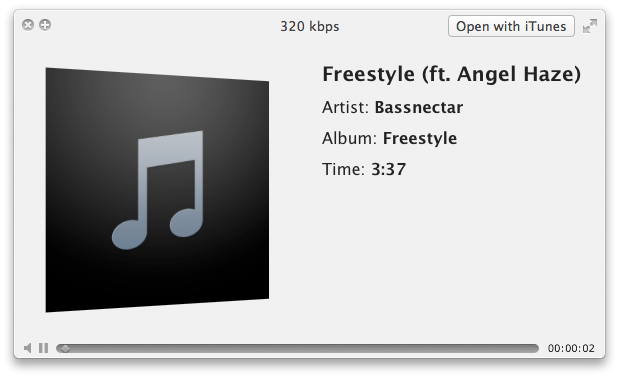
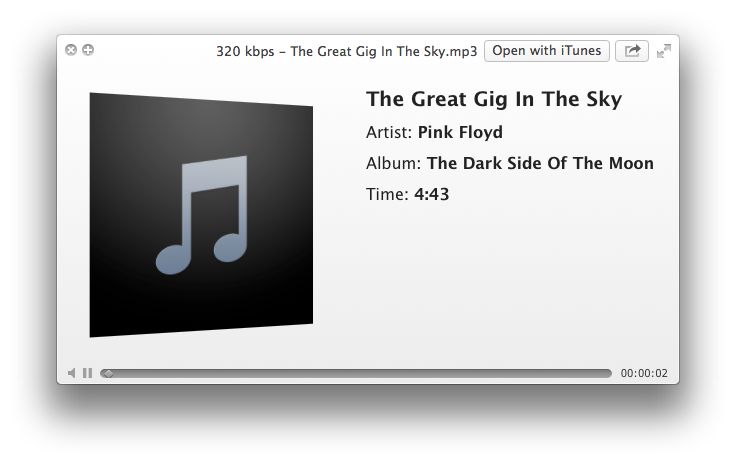
Updated for filename display support

diff --git a/qlBitrate/GeneratePreviewForURL.c b/qlBitrate/GeneratePreviewForURL.c
@@ -59,7 +59,7 @@ OSStatus GeneratePreviewForURL(void *thisInterface, QLPreviewRequestRef preview,
 
     // Build output to display
     CFStringRef keys[1] = {kQLPreviewPropertyDisplayNameKey};
-    CFStringRef values[1] = {CFStringCreateWithFormat(kCFAllocatorDefault, NULL, CFSTR("%i Kbps - %@"), bitRate, filename)};
+    CFStringRef values[1] = {CFStringCreateWithFormat(kCFAllocatorDefault, NULL, CFSTR("%i kbps - %@"), bitRate, filename)};
     CFDictionaryRef properties = CFDictionaryCreate(kCFAllocatorDefault, (const void**)keys, (const void**)values, 1, &kCFTypeDictionaryKeyCallBacks, &kCFTypeDictionaryValueCallBacks);
     QLPreviewRequestSetURLRepresentation(preview, url, contentTypeUTI, properties);
     

diff --git a/README.md b/README.md
@@ -1,6 +1,6 @@
 # qlBitRate
 
-__qlBitRate__ is a QuickLook plugin that will display the bit rate (in kbps) of an MP3 file in the title bar of the QuickLook window.  This plugin has been tested to work in at least OS X 10.7 (Lion) and 10.8 (Mountain Lion).
+__qlBitRate__ is a QuickLook plugin that will display the bit rate (in kbps) and filename of an MP3 file in the title bar of the QuickLook window.  This plugin has been tested to work in at least OS X 10.7 (Lion), 10.8 (Mountain Lion), and 10.9 (Mavericks).
 
 
 ![qlBitRate Screenshot](https://raw.github.com/jordansaints/qlBitRate/master/demo.png "qlBitRate in action!")
